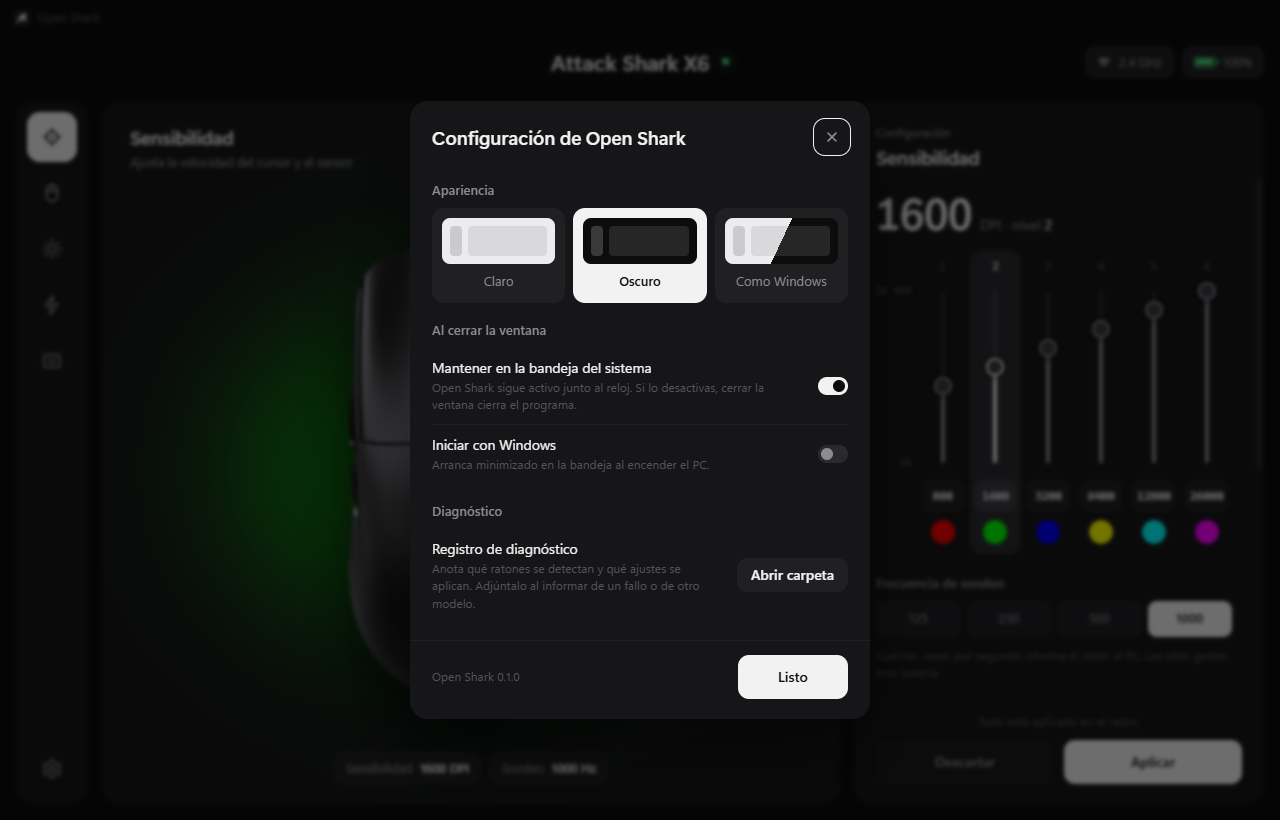
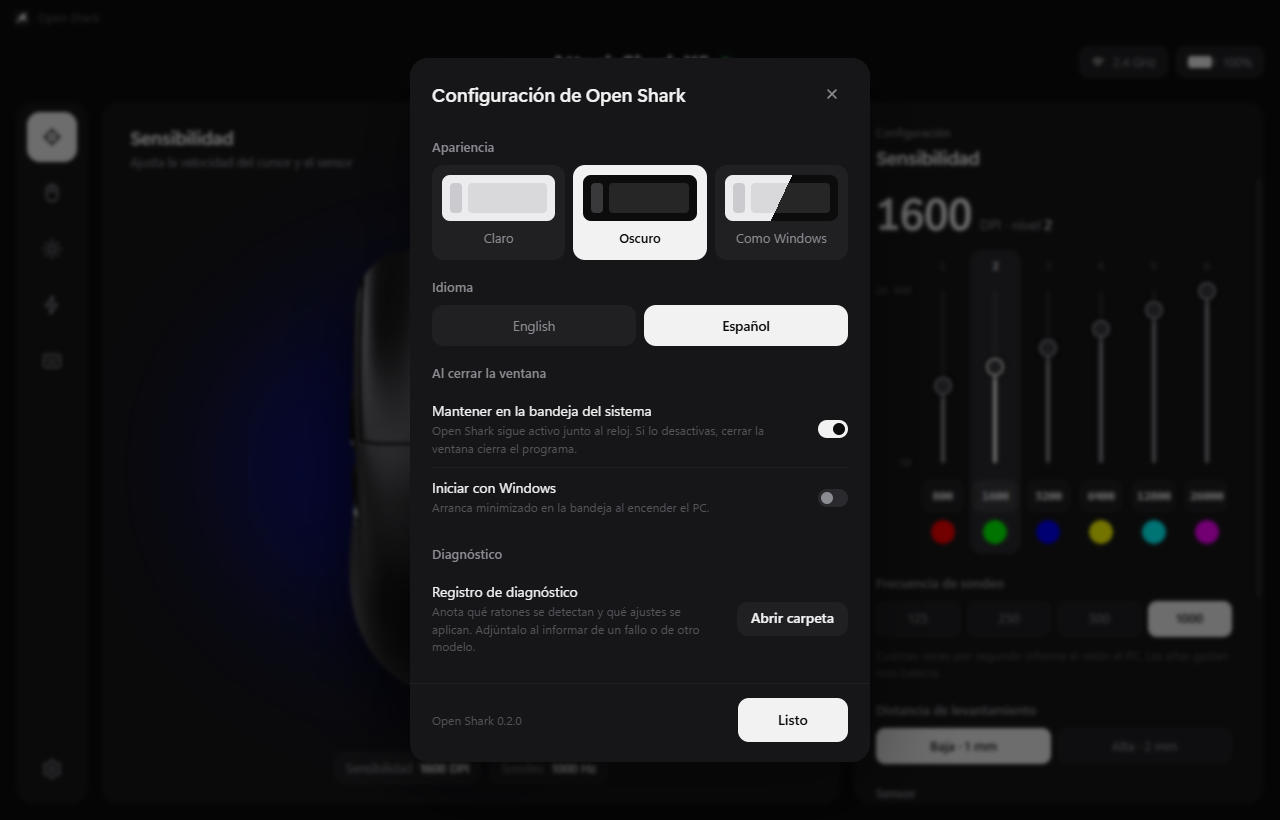
Versión 0.2.0: capturas en inglés y español, y captura fuera de pantalla
- README.md usa capturas nuevas en inglés (docs/screenshots); README.es.md,
  las capturas en español actualizadas (nueva foto del ratón e icono de batería).
- --lang=en|es fuerza el idioma sin guardarlo, para hacer capturas.
- Con --capture la ventana se dibuja fuera de pantalla, así la captura sale
  aunque la pantalla esté bloqueada o apagada.

diff --git a/src/main/main.js b/src/main/main.js
@@ -48,7 +48,10 @@ const MAIN_TEXT = {
   },
 };
 const LANGS = Object.keys(MAIN_TEXT);
+// `--lang=en|es` fuerza un idioma sin guardarlo (útil para capturas).
+const langArg = process.argv.find((a) => a.startsWith('--lang='))?.slice(7);
 function currentLang() {
+  if (LANGS.includes(langArg)) return langArg;
   const chosen = store?.prefs().lang;
   if (LANGS.includes(chosen)) return chosen;
   return app.getLocale().toLowerCase().startsWith('es') ? 'es' : 'en';
@@ -120,6 +123,8 @@ function createWindow() {
       contextIsolation: true,
       nodeIntegration: false,
       sandbox: true,
+      // Con --capture se dibuja fuera de pantalla: la captura sale aunque la pantalla esté bloqueada o apagada.
+      offscreen: process.argv.some((a) => a.startsWith('--capture=')),
     },
   });
   // Con "Mantener en la bandeja" activo, cerrar la ventana la oculta; "Salir" en el icono cierra de verdad.

diff --git a/README.md b/README.md
@@ -16,7 +16,7 @@ official one, built for people who own more than one mouse from the brand.
 Each connected mouse shows its connection and battery, and keeps its own
 settings.
 
-![Open Shark: sensitivity](docs/capturas/sensibilidad.png)
+![Open Shark: sensitivity](docs/screenshots/sensitivity.png)
 
 > **Only tested with the Attack Shark X6** (2.4 GHz receiver and cable).
 > Other models from the brand may work, fully or partly, if they use the same
@@ -28,7 +28,7 @@ documented (in Spanish) in [docs/PROTOCOL.md](docs/PROTOCOL.md).
 
 | Button mapping | Lighting | Settings |
 |---|---|---|
-| ![Button mapping](docs/capturas/botones.png) | ![Lighting](docs/capturas/iluminacion.png) | ![Program settings](docs/capturas/configuracion.png) |
+| ![Button mapping](docs/screenshots/buttons.png) | ![Lighting](docs/screenshots/lighting.png) | ![Program settings](docs/screenshots/settings.png) |
 
 ## What you can configure
 
